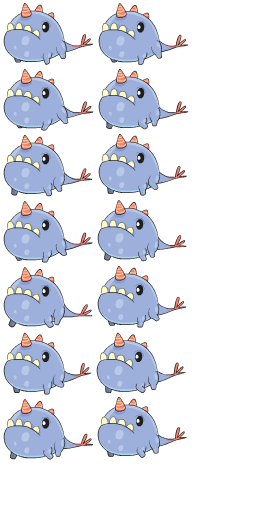
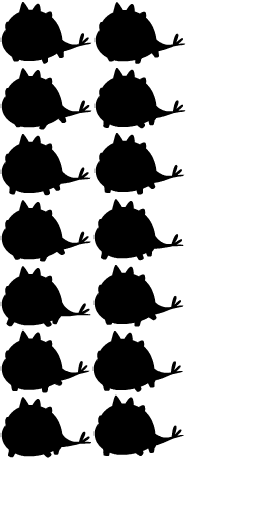
new animations

diff --git a/src/states/MainState.js b/src/states/MainState.js
@@ -3,6 +3,14 @@ import Phaser from 'phaser'
 export default class extends Phaser.State {
 
   create () {
-    const creature = this.game.add.sprite(200, 200, 'creature2');
+    this.stage.backgroundColor = '#2d2d2d';
+
+    const creature1 = this.game.add.sprite(200, 210, 'creature1');
+    creature1.animations.add('walk', Phaser.Animation.generateFrameNames('creature1_frame_', 0, 13), 30, true);
+    creature1.animations.play('walk');
+
+    const creature2 = this.game.add.sprite(400, 200, 'creature2');
+    creature2.animations.add('walk', Phaser.Animation.generateFrameNames('creature2_frame_', 0, 13), 30, true);
+    creature2.animations.play('walk');
   }
 }

diff --git a/src/loaders/asset_loader.js b/src/loaders/asset_loader.js
@@ -57,8 +57,12 @@ class AssetLoader extends Phaser.Plugin {
 
   loadImage(key, assetPostfix) {
     console.log('loadImage', key)
-    let url = require(`../../assets/images/${key}${assetPostfix}.jpg`)
-    if (!url) url = require(`../../assets/images/${key}${assetPostfix}.png`)
+    let url;
+    try {
+      url = require(`../../assets/images/${key}${assetPostfix}.jpg`)
+    } catch (err) {
+      url = require(`../../assets/images/${key}${assetPostfix}.png`)
+    }
 
     this.game.load.image(key, url)
   }

diff --git a/src/Manifest.js b/src/Manifest.js
@@ -1,5 +1,6 @@
 const Manifest = {
   animations: [
+    'creature1',
     'creature2'
   ],
   'bitmap_fonts': [
@@ -16,9 +17,9 @@ const Manifest = {
     'swoosh_short'
   ],
   'images': [
-    'red',
-    'green',
-    'blue'
+    'phaser_logo',
+    'webpack_logo',
+    'yellow_circle'
   ],
   fonts: [
     'bebas_neuebold'
